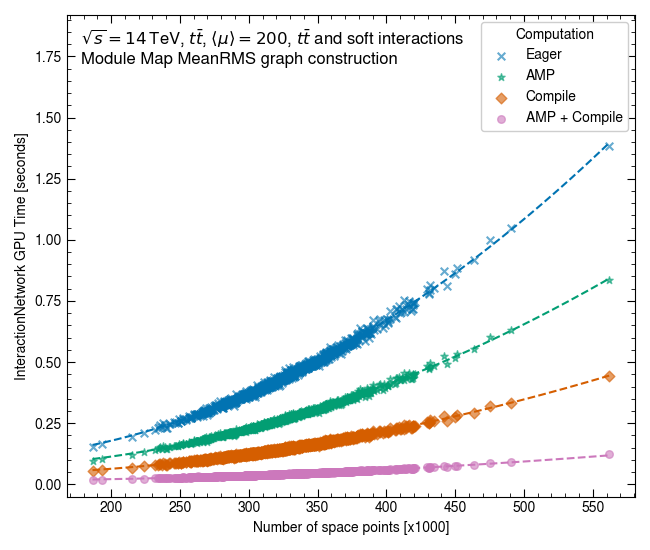
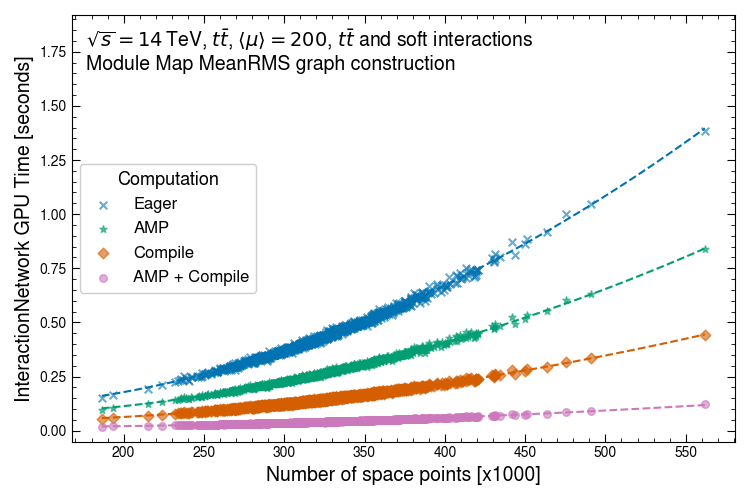
edits

Changed region(s): [[0.0, 0.0, 0.9846, 0.99], [0.8923, 0.27, 0.9231, 0.3], [0.8615, 0.3, 0.8923, 0.33]]

diff --git a/main/Track-performance.tex b/main/Track-performance.tex
@@ -24,7 +24,7 @@ As mentioned in section \ref{sect:track-fit}, the tracking model used in ATLAS c
 A GNN track candidate, however, is a list of space points reconstructed from these clusters, according to section \ref{sect:cluster-spacepoint}. 
 To carry out the fit, the space points are first matched to their corresponding clusters. 
 A pixel space point is matched to a unique pixel cluster, while a strip space point is matched to two strip clusters, each from one side of a barrel stave or an endcap petal (see section \ref{sect:itk-overview}). 
-The building block of track candidates is a major difference between the GNN-based and the current tracking algorithm, which has numerous implications in the interpretation of results.
+The building block of track candidates is a major difference between the GNN-based and the current tracking algorithm, which has implications in the interpretation of results.
 
 To fully characterize a charged particle's trajectory in a magnetic field, the parametrization must specify its global position, momentum and charge at any given point. 
 Various conventions satisfy this requirement. 
@@ -84,6 +84,11 @@ which is a block of the covariance matrix of the track parameters
 where $\mathbf{x}^{(i)}$ is the $i$-th component of the track parameters, $\sigma^2(X)$ the variance of $X$ and $\rho(X,Y)$ the covariance of $X$ and $Y$. 
 
 % A DISCUSSION ON TRACK PROPAGATION. THIS COULD BE MOVED TO THE CKF CHAPTER, BUT NECESSARY TO ADD A REMINDER HERE AND EMPHASIZE THE HOW MATERIAL EFFECTS ARE MODELLED.
+Given the track state $\bfx$ and a covariance $\mathbf{C}$ at any point on the trajectory, an estimate of the state at a another point $\bfx'$ can be obtained by numerically integrating the EOM, as described
+in section \ref{sect:chi2-fit}. 
+If the position of $\bfx'$ coincides with a sensitive element, an expected value of the corresponding measurement could be derived using equation \eqref{eq:track-performance:2}, allowing to write 
+the measurement error as a function of $\bfx$.
+Repeating this process, taking $\bfx$ as the initial value, we can define the measurement error of the entire track candidate and optimize for $\bfx$.
 
 Let $M=\{\mathbf{m}_1, \dotsc , \mathbf{m}_N\}$ be the set of all clusters matched to the track candidate. The cost function can be written as a function of an initial state $\mathbf{x}$ as
 \beq
@@ -351,16 +356,26 @@ The bottom plot in each figure shows the ratio between each of the GNN-based cur
 \end{figure}
 
 The tracking efficiency varies as a function of truth pseudorapidity.
-All reconstruction algorithms reaches the maximum efficiency at $\abs{\eta}=3.0$ and $\eta=0$, and minimum at $\abs{\eta}=1.8$, symmetric around $\eta=0$
-The 
+All reconstruction algorithms reache the maximum efficiency at $\abs{\eta}=0$ and $\eta=3.0$, and minimum at $\abs{\eta}=1.8$, symmetric around $\eta=0$
+These variations are strongly correlated to the detector material encountered by the particle on its path, illustrated on figure \ref{subfig:rad-len-to-reco}. 
+The total radiation length traversed by a particle before reaching the minimum number of hits to be reconstructible is lowest at $\abs{\eta}=0$ and $\abs{\eta}=3.0$ 
+and peaks at $\abs{\eta}=1.5$. 
+Since material effects randomly direct the real trajectory away from an ideal helix, particles travelling through more material tend to have more hits deviating considerably from 
+their expected position. 
+For the CKF, this means that incorporating the correct hit could significantly increase the total $\chi^2$, leading to an early termination of the hit-finding sequence and 
+subsequently the track candidate failing the selection cuts.
+On the other hand, trained on data which contain these ``irregular'' connections, the GNN is observed to tolerate large deviations, but the constructed track candidate could
+still be ruled out by the global $\chi^2$ fit.
 
-Among the GNN-based trackers, the best efficiency is observed in the \textcolor{blue}{\textbf{Module Map MinMax}} variant, followed closely by the \textcolor{green}{\textbf{MeanRMS}} variant.
+Among the GNN-based trackers, the best efficiency is observed in the {{Module Map MinMax}} variant, followed closely by the {{MeanRMS}} variant.
 All three variants yield similar efficiency at low transverse momentum ($\pT<5$ GeV), but start to diverge at high \pT.
-The \textcolor{orange}{\textbf{Metric Learning}} is slightly less efficient for $\pT > 5$ GeV than the Module Map variants.
+The {{Metric Learning}} variant is slightly less efficient than the Module Map variants for $\pT > 5$ GeV.
 On the pseudorapidity spectrum, it has lower efficiency in the strip barrel in the range $\abs{\eta}<1$, but otherwise identical to the other GNN-based variants.
-Particles with a large transverse momentum are more likely to be concentrated in the central barrel, i.e. having small pseudorapidity. 
-Graph construction using the Metric Learning is less efficient than the Module Map at high \pT, as shown in figure \ref{subfig:filter-eff-eta}, which accumulates throughout the pipeline. 
-Consequently for the former method, the efficiency relatively degrades with increasing \pT, and, since large-\pT particles populates low $\abs{\eta}$, towards the central region.
+These observations are explain by the fact that high-\pT particles are more likely to have small pseudorapditiy and concentrate in the barrel region.
+% Particles with a large transverse momentum are more likely to be concentrated in the central barrel, i.e. having small pseudorapidity. 
+Graph construction using the Metric Learning is less efficient than the Module Map at high \pT, as shown in figure \ref{subfig:filter-eff-eta}, and the inefficiency accumulates throughout the pipeline,
+leading to the observed degradation in tracking efficiency. 
+% Consequently for the former method, the efficiency relatively degrades with increasing \pT, and, since large-\pT particles populates low $\abs{\eta}$, towards the central region.
 
 All variants of the GNN4ITk algorithm produce tracking efficiency exceeding that of the CKF when plotted as a function of $\eta$, in which each bin is the conditional efficiency averaged over all particle momenta. 
 On the \pT spectrum, however, it is clear that the improvement is not evenly distributed. 
@@ -530,9 +545,9 @@ Here we can clearly observe the correlation between the number of innermost pixe
 The transverse momentum resolution as a histogram is shown in figure \ref{subfig:res-pt-hist} and as a function of $\eta$ in figure \ref{subfig:res-pt-eta}.
 Unlike the other parameters' resolution, the dimensionless transverse momentum resolution is computed as $$
 \sigma(\pT) = p_{T,truth}  \times \left ( \frac{q}{p_{T, reco}} - \frac{q}{p_{T, truth}} \right).$$
-While other track parameters are directly obtained from the $\chi^2$ fit, the transverse momentum is a derived quantity in the ATLAS parametrization, as evidenced from equation \eqref{eq:track-performance:1}. 
+While other track parameters are directly obtained from the $\chi^2$ fit, the transverse momentum is derived from the total momentum $p$ and the azimuthal angle $\theta$ in the ATLAS parametrization (equation \eqref{eq:tracking-performance:1}). 
 There is no straightforward relationship between its resolution and elements of the global fit.
-However, given that it is derived from fit parameter $q/p$, which is influenced by material interaction, one expects degrading \pT resolution with more detector material encountered on the trajectory.
+However, given that it is derived from fit parameter $q/p$, whose uncertainty is driven by material interaction, one expects lower \pT resolution with more detector material encountered on the trajectory.
 This effect is observed on figure \ref{subfig:res-pt-eta},  viewed in tandem with figure \ref{subfig:itk-rad-len}, which shows the material budget traversed by a straight track in radiation length as a function of the particle's pseudorapidity.
 The total radiation length increases generally with $\eta$, so the closer to the beamline is the particle, the more its energy--and thus momentum--is eroded, weakening the constraints on \pT. 
 In consequence, the \pT resolution decreases monotonically with $\eta$.

diff --git a/main/Computational-performance-and-optimization.tex b/main/Computational-performance-and-optimization.tex
@@ -129,17 +129,21 @@ Interestingly, the performance boost delivered by the combined technique exceeds
 
 Similarly, the peak memory consumption is significantly improved with the combined optimization.
 Shown in figure \ref{tab:gnn-comp-improve}, the peak consumption on the A100 decreases from 19.16GB in the baseline to 6.48GB in the combined configuration, a factor of almost 3 smaller. 
-Thanks to the reduced memory footprint, it becomes possible to fit several events per batch and increase the inference throughput, a logical next step for future computational optimization. 
+Thanks to the reduced memory footprint, it becomes possible to simultaneously fit several events on the GPU and enhance the inference throughput, a logical next step for future computational optimization.
+This direction is being explore using a \textit{inference-as-a-service} approach, which optimizes the GPU utilization by batching multiple inference events and processing
+at the same time~\cite{zhao2025trackreconstructionservicecollider}. 
 
+\newpage
 \begin{figure}[h!]
     \centering
-    \begin{subfigure}[b]{0.49\textwidth}
+    \begin{subfigure}[b]{0.62\textwidth}
     \centering
         \includegraphics[width=\textwidth]{figures/rms_80g.png}
         \caption{}
         \label{subfig:gnn-time-node}
     \end{subfigure}
-    \begin{subfigure}[b]{0.49\textwidth}\centering
+
+    \begin{subfigure}[b]{0.62\textwidth}\centering
         \includegraphics[width=\textwidth]{figures/rms_80g_hist.png}
         \caption{}
         \label{subfig:gnn-time-hist}
@@ -148,12 +152,13 @@ Thanks to the reduced memory footprint, it becomes possible to fit several event
     \label{fig:gnn-time-node}
 \end{figure}
 
+
 \begin{table}[ht]
     \centering
     \begin{tabular}{|l|c|c|c|} \hline
-      {Optimization}   &  {A} & {B} & {C} \\ \hline 
+      {Computation}   &  {A} & {B} & {C} \\ \hline 
       \hline
-       Baseline  & 5.56 & $-8.73\times 10^{-1}$ & $1.30\times 10^{-1}$ \\
+       Eager  & 5.56 & $-8.73\times 10^{-1}$ & $1.30\times 10^{-1}$ \\
        AMP & 3.36 & $-5.40\times 10^{-1}$ & $8.87\times10^{-2}$ \\
        Compile & 1.73 & $-2.67\times 10^{-1}$  & $4.76\times 10^{-2}$ \\
        AMP + Compile & 0.457 & $-7.95\times 10^{-2}$ & $1.87\times 10^{-2}$ \\ \hline
@@ -161,10 +166,10 @@ Thanks to the reduced memory footprint, it becomes possible to fit several event
     \caption{The coefficients of a second-order polynomial fit to the GPU time shown in figure \ref{fig:gnn-time-node} for each optimization technique. The GPU time $t$ in units of seconds is assumed to depend on $x=\frac{\abs{V}}{10^6}$, where $V$ is the set of nodes, as $t=Ax^2+Bx+C$.}
     \label{tab:gnn-time-node-fit}
 \end{table}
-% [put a histogram]
+% \newpage
 The event-level GPU run time as a function of the event size measured in the number of space points (graph nodes) along its best-fit second-order polynomial is shown in figure \ref{subfig:gnn-time-node}, and the fitted coefficients in table \ref{tab:gnn-time-node-fit}.
 The majority of events contain 250,000 to 425,000 nodes, and their GPU time exhibits a well-defined scaling behaviour with respect to the number of space points in the event.
-The dependence on space point number of GPU time is strongly quadratic, with a small linear component. 
+The dependence on space point number of GPU time scales quadratically, with a small linear component. 
 Events far from the distribution core are well-described by the fitted curve, and no significant outliers are observed. 
 The scaling behaviour is significantly improved with each optimization technique. 
 In comparison to that of eager execution, the execution time of the combined AMP and Compilation execution scales much slower with event size, which is approximately proportional to true pile-up. 
@@ -172,7 +177,7 @@ This is evident, given the second-order coefficient of obtained from the latter 
 The execution time of the optimized code is thus not only small but also stays small over the typical range of pile-up.
 
 The latency reduction from these computational optimizations is also evident from both the mean and spread of the GPU time distribution observed in each scenario, demonstrated in figure \ref{subfig:gnn-time-hist}.
-In the combined optimization, the distribution averages to $42\pm 9$ ms, with a range of 103 ms, while in the eager baseline, the distribution centres at $443\pm117$ ms, with a range of 1231 ms. 
+In the combined optimization, the distribution averages to $42\pm 9$ ms, with a range of 103 ms, while in the eager baseline, the distribution centers at $443\pm117$ ms, with a range of 1231 ms. 
 The former only only peaks at a lower latency, it is also much narrower than the latter.
 This weak scaling makes the computation less susceptible to large events outside the core distribution, as shown in figure \ref{subfig:gnn-time-node} above $\abs{V}=4.5\times 10^5$.
 
@@ -208,10 +213,13 @@ As of writing, a CUDA-based version of the Walkthrough is under development, pro
     \label{tab:pipeline-comp-perf}
 \end{table}
 Of the two graph construction approaches, Module Map is significantly faster than Metric Learning.
-The latter's inference time is the sum of the metric learning and filter steps, both of which, as of writing, have not been optimized.
-On the other hand, the former is accelerated by a custom CUDA-kernel which maximally parallelizes all steps of the graph creation on the GPU.
+The former is carried out by a custom CUDA-kernel which maximally parallelizes all steps of the graph creation on the GPU, most notably the \textsc{Merge/Join} operations of data frames,
+which consume considerable computation on the CPU but are greatly accelerated on the GPU~\cite{cudf}.
+On the other hand, the latter's graph construction latency is the sum of the metric learning and filter steps, both of which, as of writing, have not been optimized.
+The metric learning step suffers from a lengthy kNN search in high a 12-dimensional space, and the filter step operates on large graphs of $\abs{V}\sim 6\times 10^6$ edges. 
+These shortcomings are however optimizable, and methods to address them are being investigated. 
 In the edge classification step, both graph construction approaches demonstrate similar speed, ranging from 42 to 53 ms/event.
-Their relative latency is evident from the average graph size, with $\abs{V}_{\mathrm{MinMax}} > \abs{V}_{\mathrm{ML}} > \abs{V}_{\mathrm{MeanRMS}}$, and correspondingly $t_{\mathrm{MinMax}} > t_{\mathrm{ML}} > t_{\mathrm{MeanRMS}}$.
+Their difference in latency is evident from the average graph size, with $\abs{E}_{\mathrm{MinMax}} > \abs{E}_{\mathrm{ML}} > \abs{E}_{\mathrm{MeanRMS}}$, and correspondingly $t_{\mathrm{MinMax}} > t_{\mathrm{ML}} > t_{\mathrm{MeanRMS}}$, where $E$ is the edge set and $t$ the latency.
 In the graph segmentation step, after fake edges are removed by a loose GNN score cut, the remaining graphs have similar edge set among the three variants, and their track building time is largely in accordance.
 
 % Unlike the case of the tracking performance, it is not straightforward to compare the CKF- and GNN-based track finders in terms of the computing performance.

diff --git a/main/The-CKF.tex b/main/The-CKF.tex
@@ -64,7 +64,7 @@ In this sense, pixel space point formation is obtained from a change in referenc
 While there is a one-to-one correspondence between a pixel cluster and a pixel space point, the space point formation in the strip detector is more complicated.
 Strip modules are finely segmented in only one direction, rendering each measurement one-dimensional, in contrast to the two-dimensional measurements on a pixel module.
 To obtain a three-dimensional position estimate, two strip clusters from the same layer are combined, as shown in fig. \ref{fig:sp-calcul-strip}. 
-The local position of the hit along the thinly segmented dimension is established with high resolution.
+The local position of the hit along the thinly segmented dimension is estimated with high resolution.
 Thanks to the stereo angle between the modules, an estimate of the second coordinate is made from the intersection of the strip cells, albeit with lower resolution. 
 These measurements are then transformed to a global position estimate, as described above. 
 
@@ -72,17 +72,27 @@ These measurements are then transformed to a global position estimate, as descri
 % As the number of cluster combinations exceeds the number of particles, ghost space points are created by false association of clusters. 
 
 In the current track reconstruction chain, space points are used to build track seeds, which are small groups of hits likely to originate from the same particle. 
-A dedicated seeding stage create large number of seeds each containing three space points, which are subsequently fed to a track building algorithm. 
+A dedicated seeding stage creates large number of seeds each containing three space points and subsequently feeds them to a track building algorithm. 
 The latter extends the seed by iteratively adding clusters that are compatible with the corresponding track state.
 A small number of clusters in the final track candidate come from the seed space points, and the rest from individually incorporated clusters on the track path.
+
+\begin{figure}[h!]
+    \centering
+    \includegraphics[width=0.7\textwidth]{figures/lone-clusters.png}    
+    \caption{Average number of lone strip clusters per track as a function of the particle pseudorapdity $\eta$.}
+    \label{fig:lone-cluster-distribution}
+\end{figure}
 
 Finally, we note an important consequence of the 2-cluster composition of the strip space point.
 Despite meticulous optimization of the detector layout, a particle does not always leave two hits on a strip layer. 
 Silicon sensors have inherent inefficiency, which means that a particle may traverse a detector module without inducing a signal.
 This phenomenon occurs in both sub-detectors of the ITk, but is very unlikely.
-More importantly, in the strip detector, a particle may approach a layer in a direction such that it intersects only one of two physical strip modules (see section \ref{sect:itk-overview} for a description of the strip detector). 
-For any reason, when a strip layer records a \textit{lone} cluster, it is ignored by the space point formation algorithm, resulting in a cluster inefficiency amongst the space points.
-This inefficiency is of limited consequence in the current ATLAS reconstruction chain, because space points are only used for track seeding.
+A more important inefficiency comes from the the strip detector, in which a particle may approach a layer in a direction such that it intersects only one of two physical strip modules (see section \ref{sect:itk-overview} for a description of the strip detector). 
+For any reason, when a strip layer records a \textit{lone} cluster, it is ignored by the space point formation algorithm, resulting in its absence from the space point collection.
+On figure \ref{fig:lone-cluster-distribution}, we observe that particles leave lone clusters when their pseudorapdity falls under the coverage of the strip detector at $\abs{\eta}<2.8$, 
+reaching up to one lone cluster per particle at $\abs{\eta}\simeq 1.8$.
+This means that if we look at the space point record, every particle in this region effectively skips a strip layer.
+This hit inefficiency is inconsequential in the current ATLAS reconstruction chain, because space points are only used for track seeding, and there is enough redundancy to cover all true particle seeds.
 However, an algorithm that builds tracks from space points would not see lone clusters in the input, which may cause potential impacts on its performance.
 This issue will become important for the new algorithm and be described in chapter \ref{chap:tracking-performance}.
 

diff --git a/main/Introduction.tex b/main/Introduction.tex
@@ -1,8 +1,8 @@
  \chapter{Introduction}
 
-The existence of Dark Matter (DM) enjoys well-established acceptance among particle physicists and cosmologists, supported by a wealth of evidence from astrophysical observations [cite]. 
+The existence of Dark Matter (DM) enjoys well-established acceptance among particle physicists and cosmologists, supported by a wealth of evidence from astrophysical observations~\cite{Corbelli:1999af,Rubin:1980,Begemann:1991,Hinshaw:2012aka,Akrami:2018vks,Trimble1987,Bertone2005,Feng2010}. 
 Although DM accounts for an estimated 85\% of the mass in the universe, it has no obvious particle candidate in the Standard Model.
-Thus, an explanation of its nature is a central focus of the physics programme in the collider experiments such as ATLAS and CMS. 
+Thus, an explanation of its nature is a central focus of the physics programme in the collider experiments such as ATLAS and CMS~\cite{adan2023darkmattersearchescms}. 
 Among the proposed hypotheses, Weakly-Interacting Massive Particles (WIMPs) $\chi$ gain much interest for experimental detection of DM, which typically targets the associated production of a visible mediator decaying to stable particles and a large missing transverse momentum with magnitude \met.
 The result of these indirect searches is usually interpreted in the context of a simplified model that involves a fermionic DM particle connected to the visible sector via a vector, axial-vector, scalar, or pseudo-scalar mediator $a$. 
 It contains a minimal set of free parameters, including the masses and coupling strength of the DM and mediator particles. 
@@ -17,8 +17,8 @@ Overall, this work represents the most comprehensive set of constraints on the m
 
 These searches for DM leave a sizeable part of the parameter space unexcluded and await more data to derive better constraints on the \thdma. 
 In general, searches for exotic phenomena at the LHC are often statistically limited, motivating a significant boost in the rate of data collection. 
-The High-Luminosity phase of the Large Hadron Collider will help quench this thirst for data with up to 3-fold increase in instantaneous luminosity $\mathcal{L}$, reaching $7.5\times 10^{34}$ $\mathrm{cm}^{-2}\mathrm{s^{-1}}$.
-The integrated luminosity delivered to each of the general-purpose detectors will total $3000\ifb$ at the end of Run 6, $\sim 10$ times the amount of data collected during the nominal LHC runs. 
+The High-Luminosity phase of the Large Hadron Collider will help quench this thirst for data with up to 3-fold increase in instantaneous luminosity $\mathcal{L}$, reaching $7.5\times 10^{34}$ $\mathrm{cm}^{-2}\mathrm{s^{-1}}$~\cite{Aberle:2749422}.
+The integrated luminosity delivered to each of the general-purpose detectors will total $4000\ifb$ at the end of Run 5, $\sim 10$ times the amount of data collected during the nominal LHC runs. 
 This upgrade will bring unprecedented opportunities for physics discovery and precision measurements, and at the same time many challenges to all aspects of data processing, from simulation to reconstruction. 
 
 In particular, the elevated luminosity leads to an increased number of proton-proton interactions in a bunch crossing.

diff --git a/main/Edge-classification.tex b/main/Edge-classification.tex
@@ -277,11 +277,11 @@ This mission is reserved for a larger, more sophisticated \ignn introduced in th
 \begin{table}[h!]
     \centering
     \begin{tabular}{l|c|c|c}
-      Graph Construction Method  & Edge efficiency [\%] & Edge Purity & Number of edges  \\
+      Graph Construction Method  & Edge efficiency [\%] & Edge Purity [\%] & Number of edges  \\
       \hline \hline
-        Module Map \textbf{\textsc{MinMax}} & 99.69 & & $1.22\times 10^6$ \\
-        Module Map \textbf{\textsc{MeanRMS}} & 99.51  & & $8.55\times 10^5$ \\
-        Metric Learning + Filter & 99.55  & & $9.76\times 10^5$\\
+        Module Map {\textsc{MinMax}} & 99.69 & & $1.22\times 10^6$ \\
+        Module Map {\textsc{MeanRMS}} & 99.51  & & $8.55\times 10^5$ \\
+        Metric Learning + Filter & 99.55  & 1.48 & $9.76\times 10^5$\\
         \hline
     \end{tabular}
     \caption{Comparison of graphs entering the \ignn}
